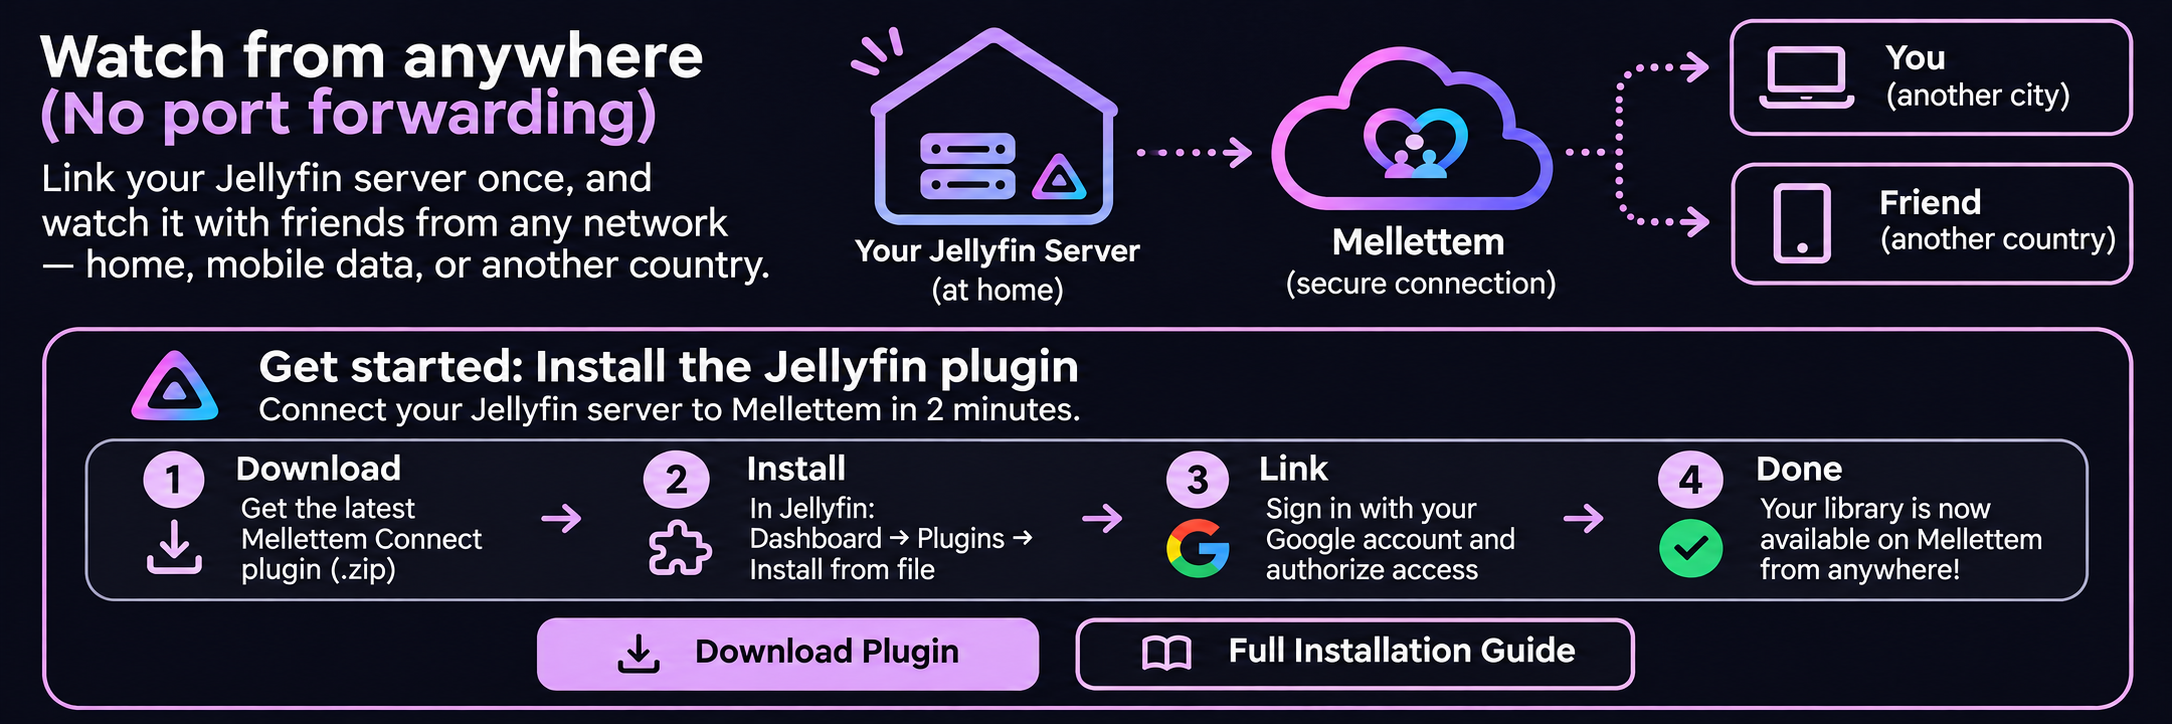
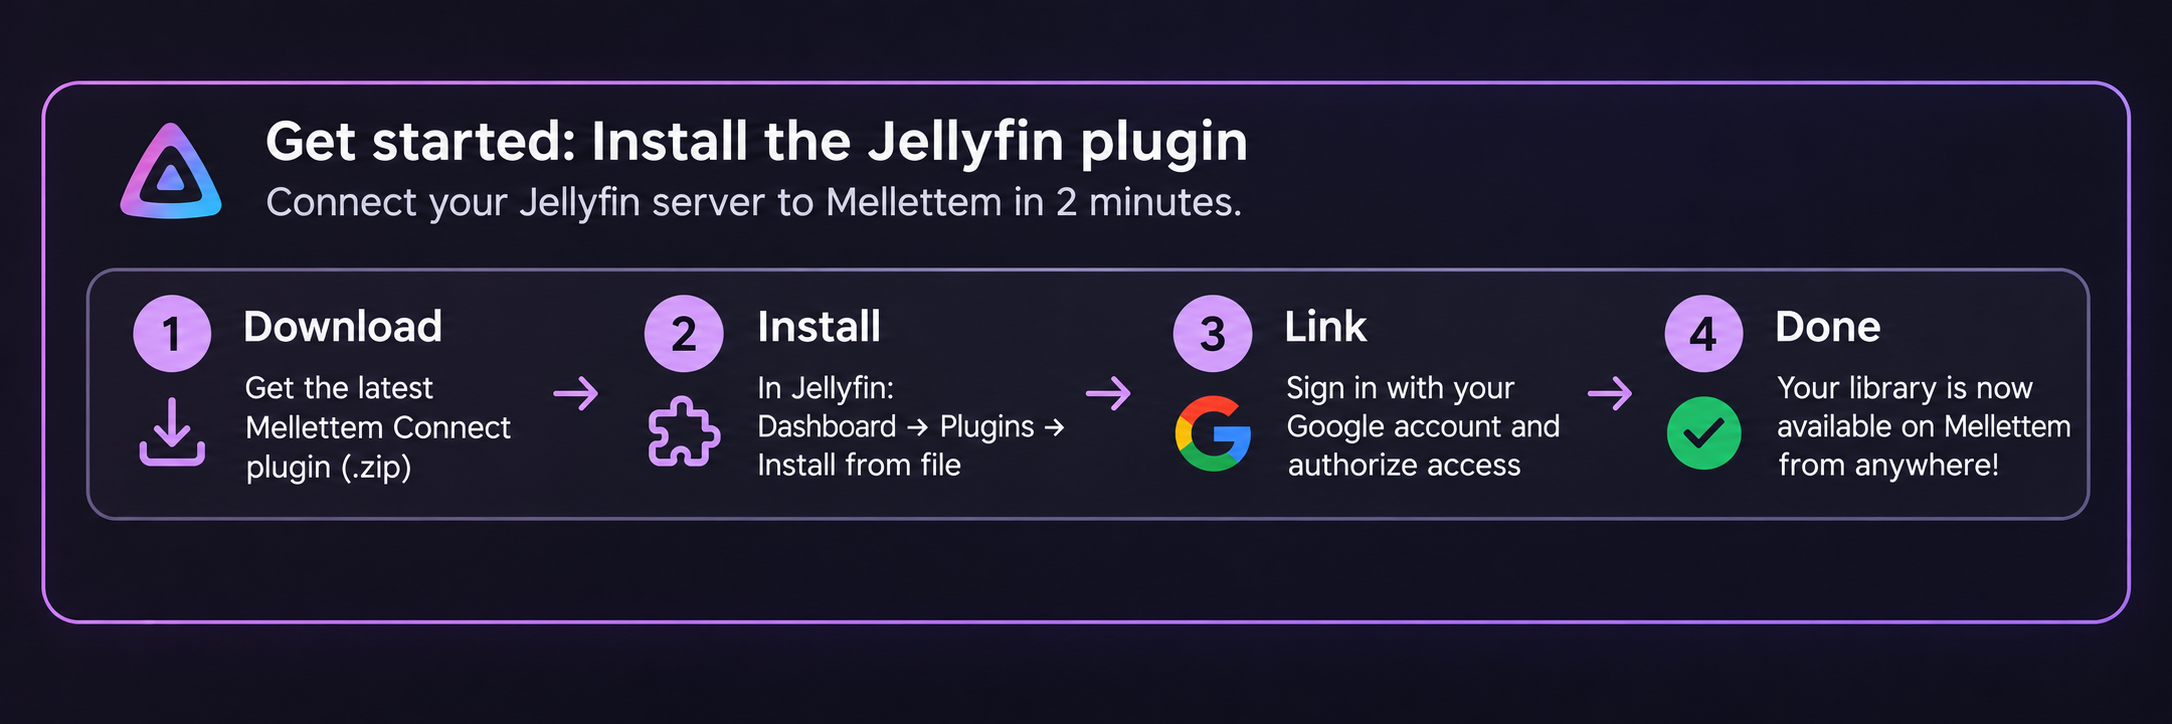
Update README setup and lobby images

Changed region(s): [[0.0, 0.0304, 0.9871, 1.0], [0.802, 0.0, 0.9871, 0.0608], [0.0, 0.942, 0.0308, 0.9724]]

diff --git a/README.md b/README.md
@@ -58,7 +58,10 @@ Mellettem Connect is in public beta for **Jellyfin 12.3 / .NET 10**. Install the
 - Open **Dashboard → Plugins → Mellettem Connect**, select **Connect Mellettem**, and approve the connection.
 - Follow the [full installation guide and troubleshooting steps](docs/mellettem-connect-installation.md).
 
-![Mellettem lobby with sign-in, room controls, and connected-library access](docs/images/lobby.jpg)
+<p align="center">
+  <img src="docs/images/lobby.png" alt="Mellettem lobby with sign-in, camera preview, room controls, and Jellyfin connection" width="49%" />
+  <img src="docs/images/lobby-playback.png" alt="Mellettem watch room with synchronized playback and per-viewer subtitle settings" width="49%" />
+</p>
 
 *Start or join a room from the lobby, and manage your linked Jellyfin server through your account.*
 
@@ -70,6 +73,10 @@ Mellettem Connect is in public beta for **Jellyfin 12.3 / .NET 10**. Install the
 Subtitles work the same way: choose your own language, or turn them off. Audio, subtitles, volume, and quality are personal; the room's play, pause, and seek controls keep the shared experience in sync. Available languages depend on the tracks in your Jellyfin media.
 
 [![Two synced viewers choose their own audio and subtitle languages while watching together](docs/images/independent-audio-subtitles.png)](docs/images/independent-audio-subtitles.png)
+
+The room keeps playback synchronized while each viewer chooses their own available audio and subtitle tracks.
+
+![A viewer changes their personal audio and subtitle tracks from the player settings while the room stays in sync](docs/images/player-track-selection.png)
 
 ## Native resolution over WebRTC, with HTTPS fallback
 
